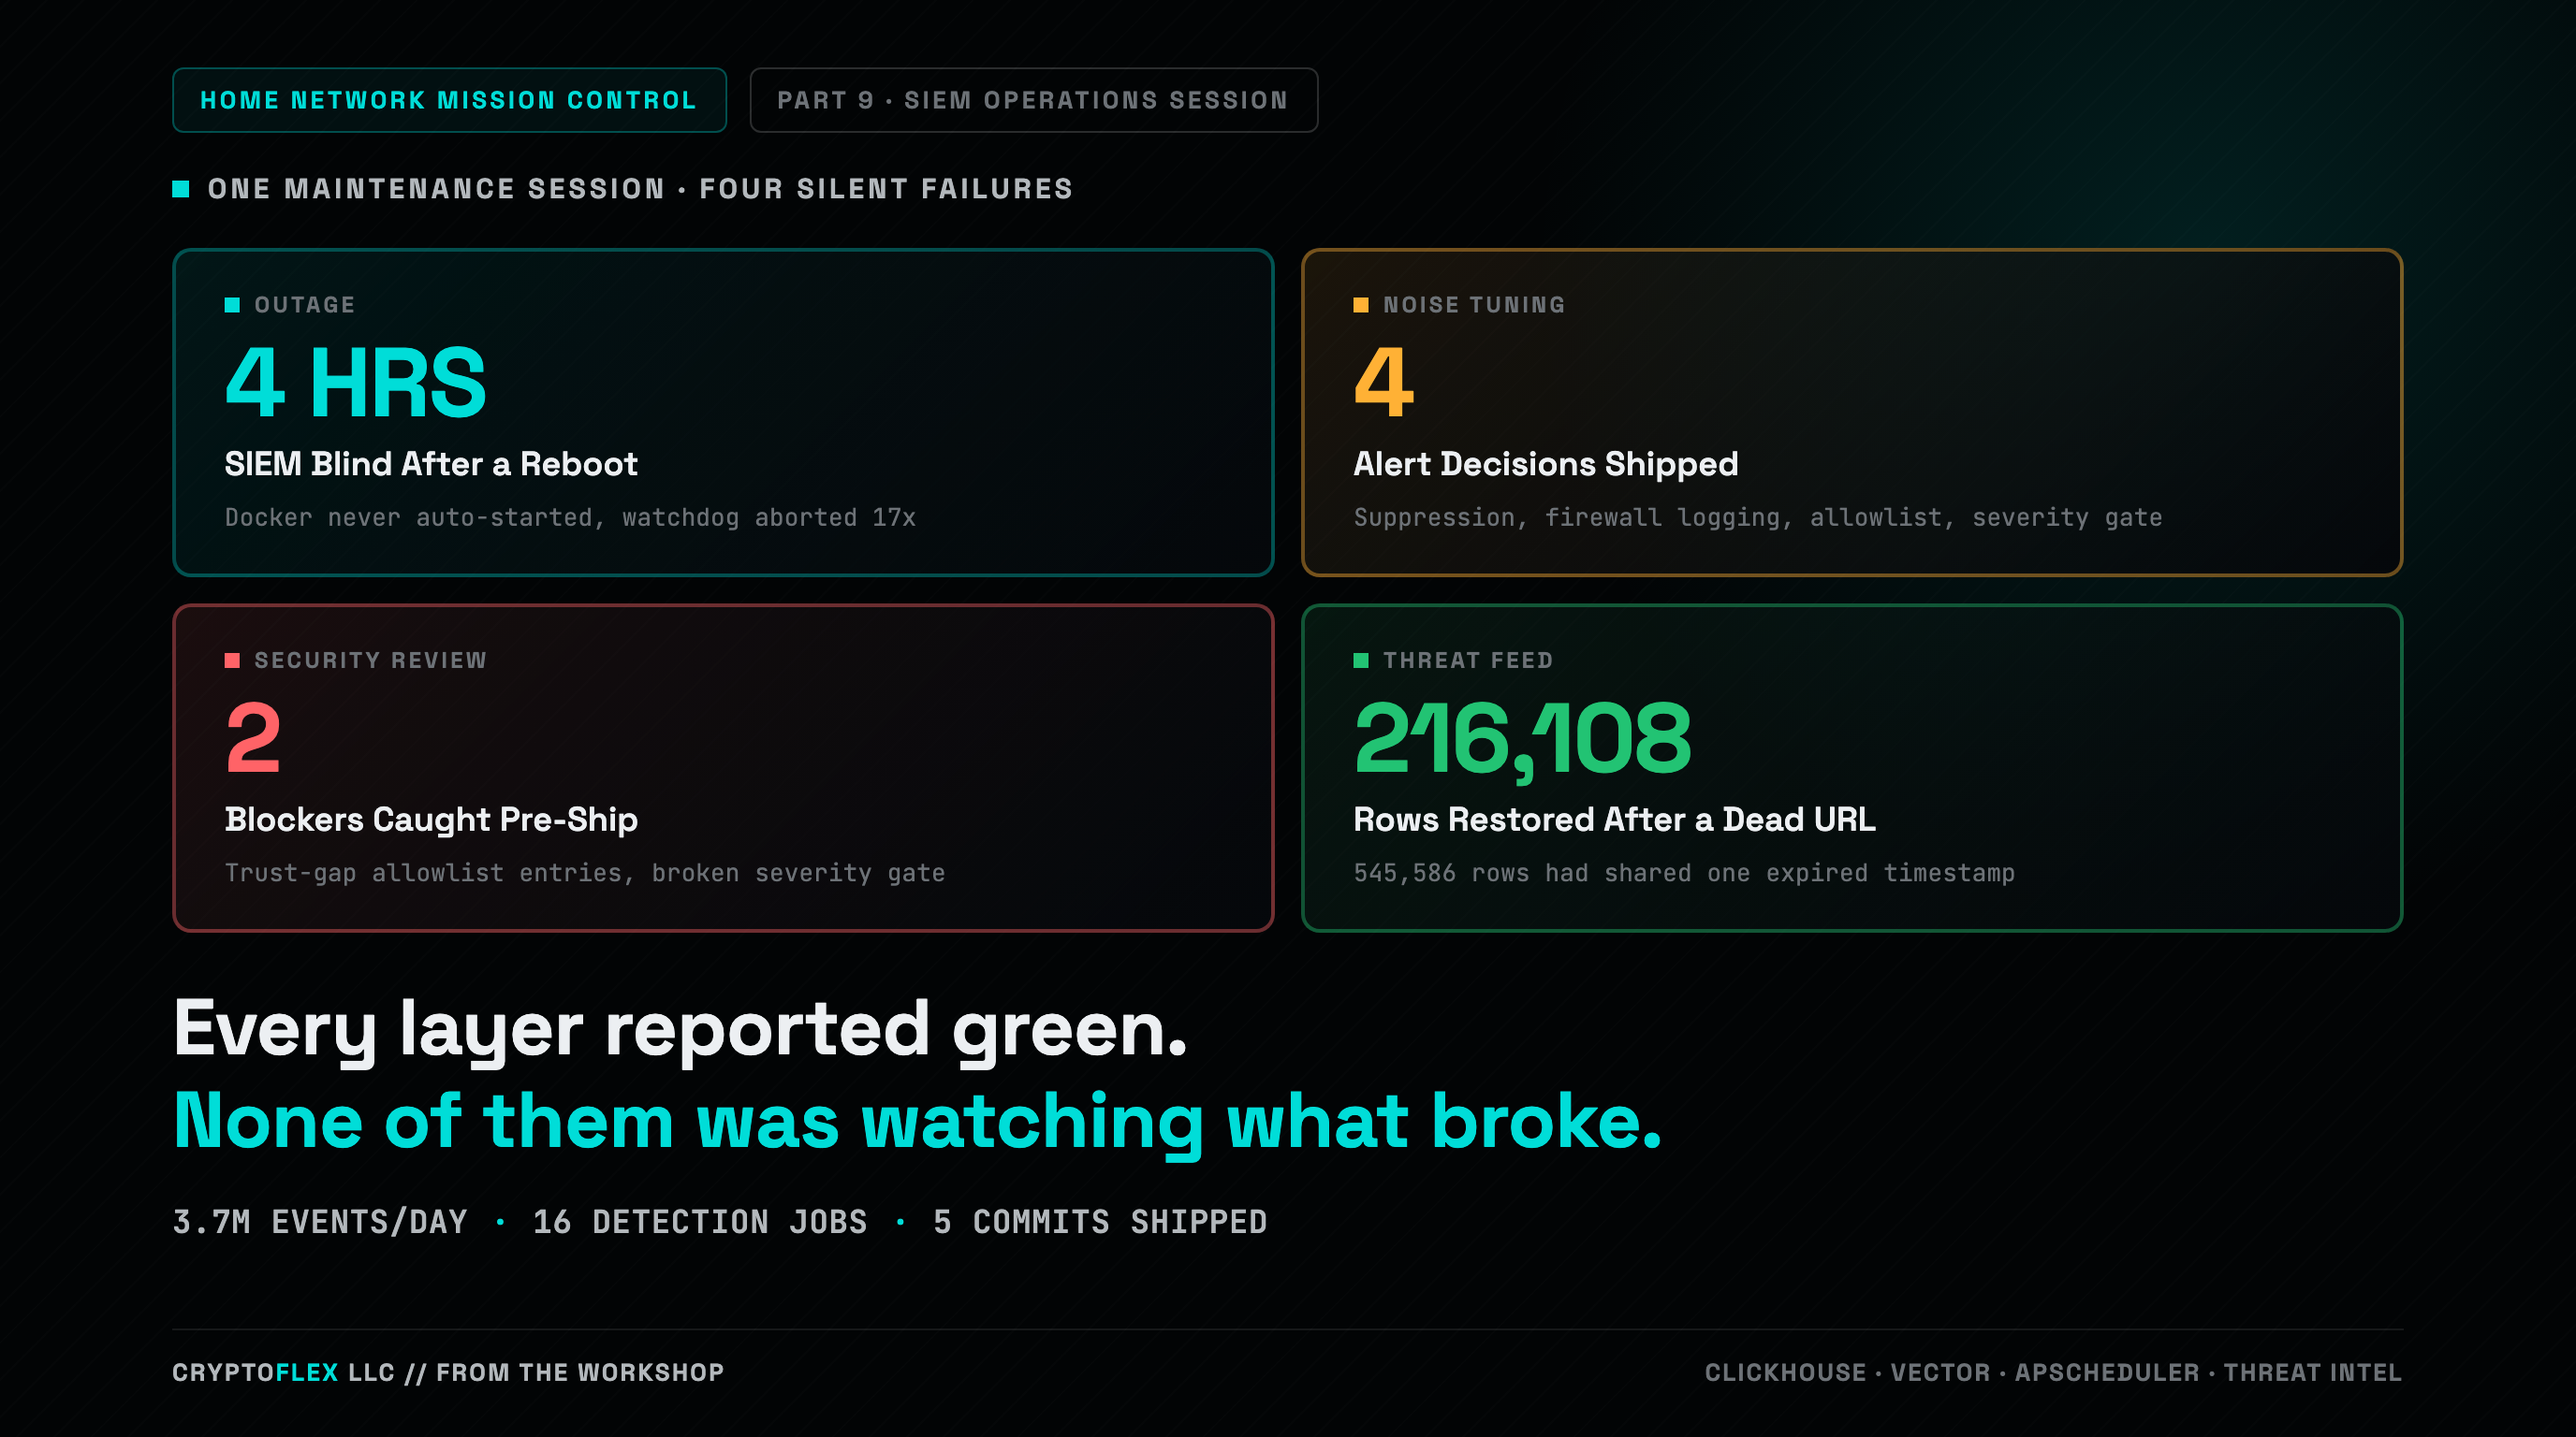
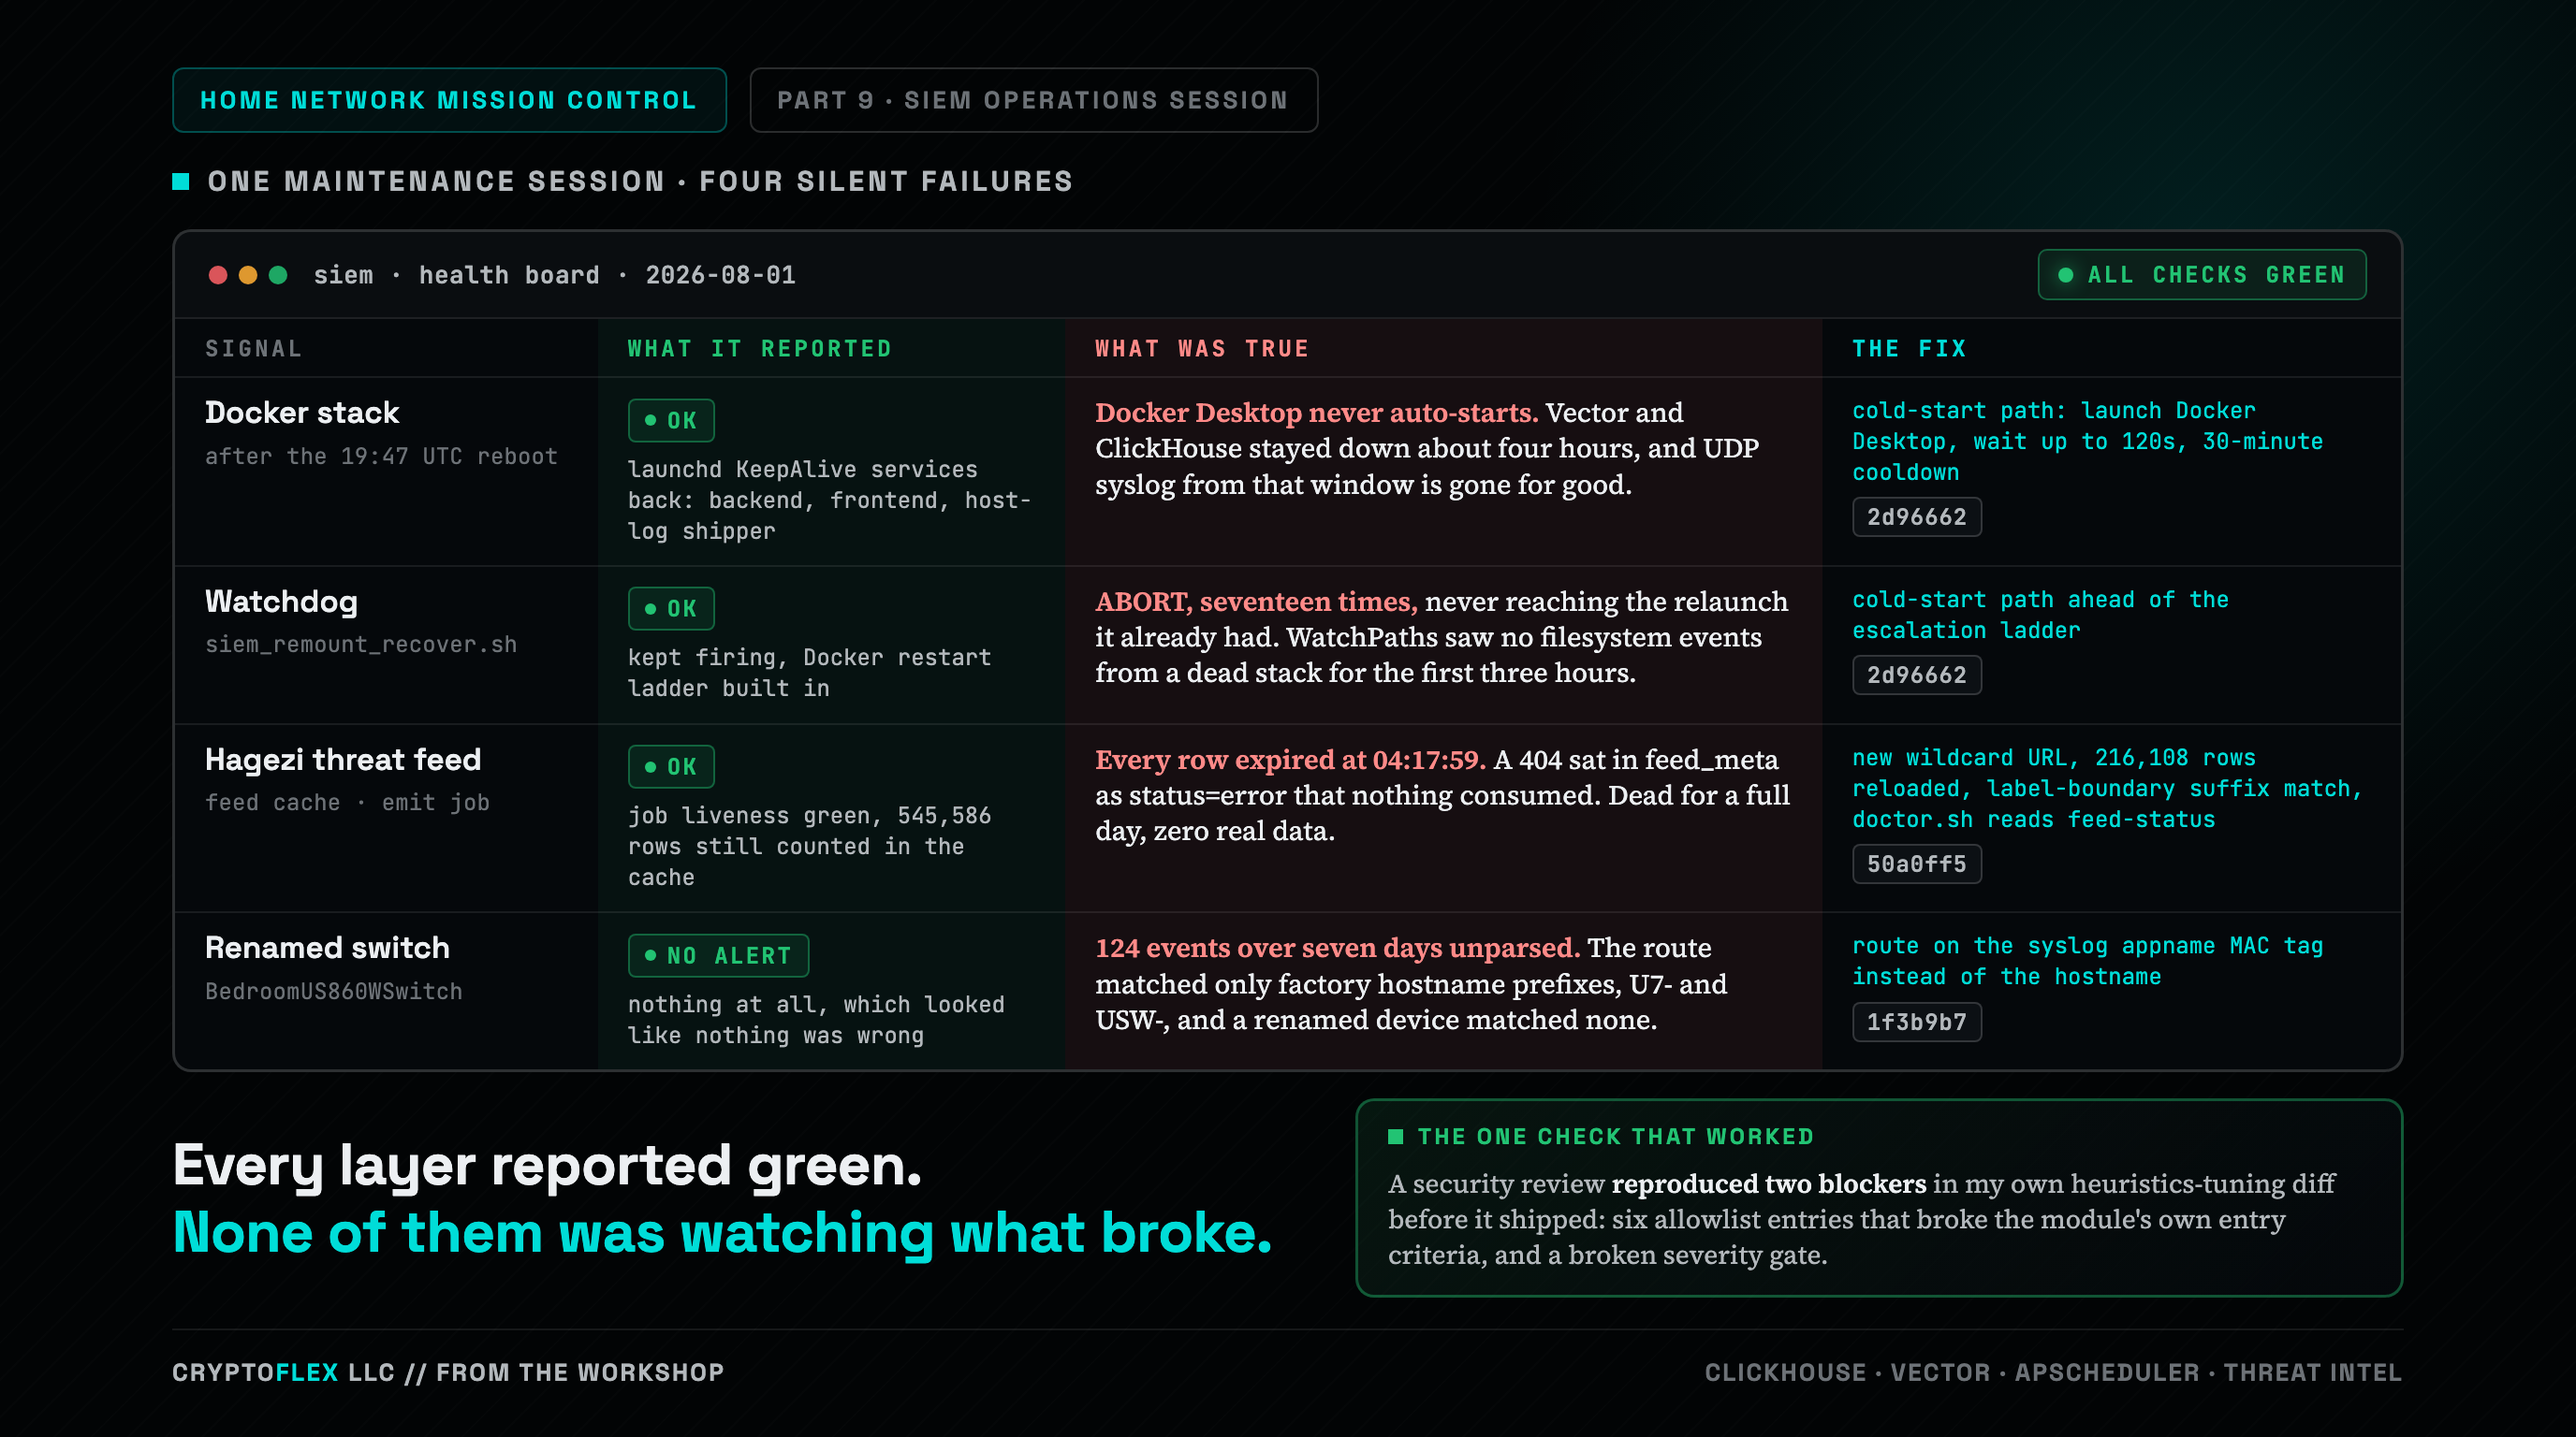
fix: remove metrics roll-call framing from backlog covers and drafts
Replace stacked inventory numbers (post counts, tests passing, files
changed, commits shipped) with story-carrying copy across the backlog:

- security-review-round-two: stat line under the title replaced with a
  one-line deck naming where the critical finding hid and how it was
  caught; fences enlarged and vertical rhythm evened; closing paragraph
  no longer a tally; alt text updated
- home-network-mission-control-upgrading-my-home-siem: retired stat-tile
  cover and its events/jobs/commits footer replaced with a bespoke
  health-board composition (signal, what it reported, what was true, the
  fix) plus the one check that worked; alt text and register row updated
- ledgerly-cyber-editorial-rebuild: kicker rewritten as the stock-shadcn
  contrast; closing drops the file count and count stack and fixes a
  dangling reference
- blog-post-command-v2: lead rewritten to open on the structural change
  instead of a file/agent tally and a thesis announcement

Add a "Copy on the cover" section to docs/cover-graphics-standards.md
banning the roll-call pattern in kickers, decks, stat lines, and tile
rows. Published posts and covers are intentionally unchanged.

diff --git a/docs/cover-graphics-standards.md b/docs/cover-graphics-standards.md
@@ -59,6 +59,24 @@ with swapped words reads as a template, not a piece about the post.
 5. **Report the concept.** The agent's report and the register entry
    name the concept, so the next cover can be checked against it.
 
+## Copy on the cover
+
+- **No metrics roll call.** A kicker, deck, stat line, or tile row made
+  of inventory numbers (post counts, tests passing, files changed, lines,
+  insertions, coverage percentages, version numbers presented as
+  achievements) is the AI-flourish framing the owner has rejected
+  ("91 POSTS · 812 TESTS PASSING · KNOWN VULNS 17→12 · NEXT.JS 16.3.0").
+  Every line of copy carries the story: what was found, what it means,
+  what changed. A number earns a place only when the argument turns on it
+  (1,054 rows wrongly excluded; 46 tests that stayed green through a
+  full rebuild), and it appears as a callout inside the concept, said in
+  words, not as one entry in a stacked list of counts.
+- The kicker under the header is a thesis or a contrast, in words.
+  Stack tags in the footer strip (NEXT.JS 16 · SQLITE · MCP) are the one
+  place a bare list of names belongs.
+- Cover copy follows the same voice profile as the post: no em dashes,
+  no hype labels, no telling the reader how to feel.
+
 ## Composition register
 
 Append one row per cover. Concept and dominant element are what the next
@@ -68,8 +86,8 @@ designer checks against.
 |---|---|---|
 | cramdex-open-source-sans-study-app | Feature stat tiles (origin of the retired pattern) | 2x2 stat tiles + punchline |
 | building-ledgerly-v1 | Feature stat tiles (retired pattern) | 2x2 stat tiles: import, dashboard, chat, reports |
-| home-network-mission-control-upgrading-my-home-siem | Stat tiles with stat line (retired pattern) | 2x2 stat tiles + stat line |
-| security-review-round-two | The vulnerability itself, side by side: a plain frontmatter fence that renders vs a labelled fence that would execute | Two terminal fences over a headline and six reviewer-lens chips |
+| home-network-mission-control-upgrading-my-home-siem | The status board that lied: four signals that reported green beside what was actually true and the commit that fixed each, with the one check that worked as the exception | Full-width terminal-style health-board table (Signal, What It Reported, What Was True, The Fix) with green and red tinted columns; punchline and a small green exception card below |
+| security-review-round-two | The vulnerability itself, side by side: a plain frontmatter fence that renders vs a labelled fence that would execute; deck line names where it hid and how it was caught | Two terminal fences over a headline, a one-line story deck, and six reviewer-lens chips |
 | tryhackme-ai1-ai-security-certification | Exam split: reasoning vs flag | Horizontal split bar with two segments and stat line |
 | ledgerly-mcp-tool-calling-chat | The chat turn as it happened: the question, two tool-call chips in call order, the answer with the excluded-mortgage sentence highlighted, and a pinned 1,054-rows callout | Terminal-style chat transcript panel (~60% width) with a right rail of five hops (browser, route, CLI, MCP stdio, SQLite) and a flags terminal block beneath |
 | ledgerly-cyber-editorial-rebuild | One design-system record fanning out over a two-trunk teal bus into eight agent lanes, with the 46 green tests as a rail | Left record card (file tree of the nine sheets) plus a 2x4 grid of lane cards fed by arrowed bus stubs; 46-square test rail and right-aligned punchline below |
